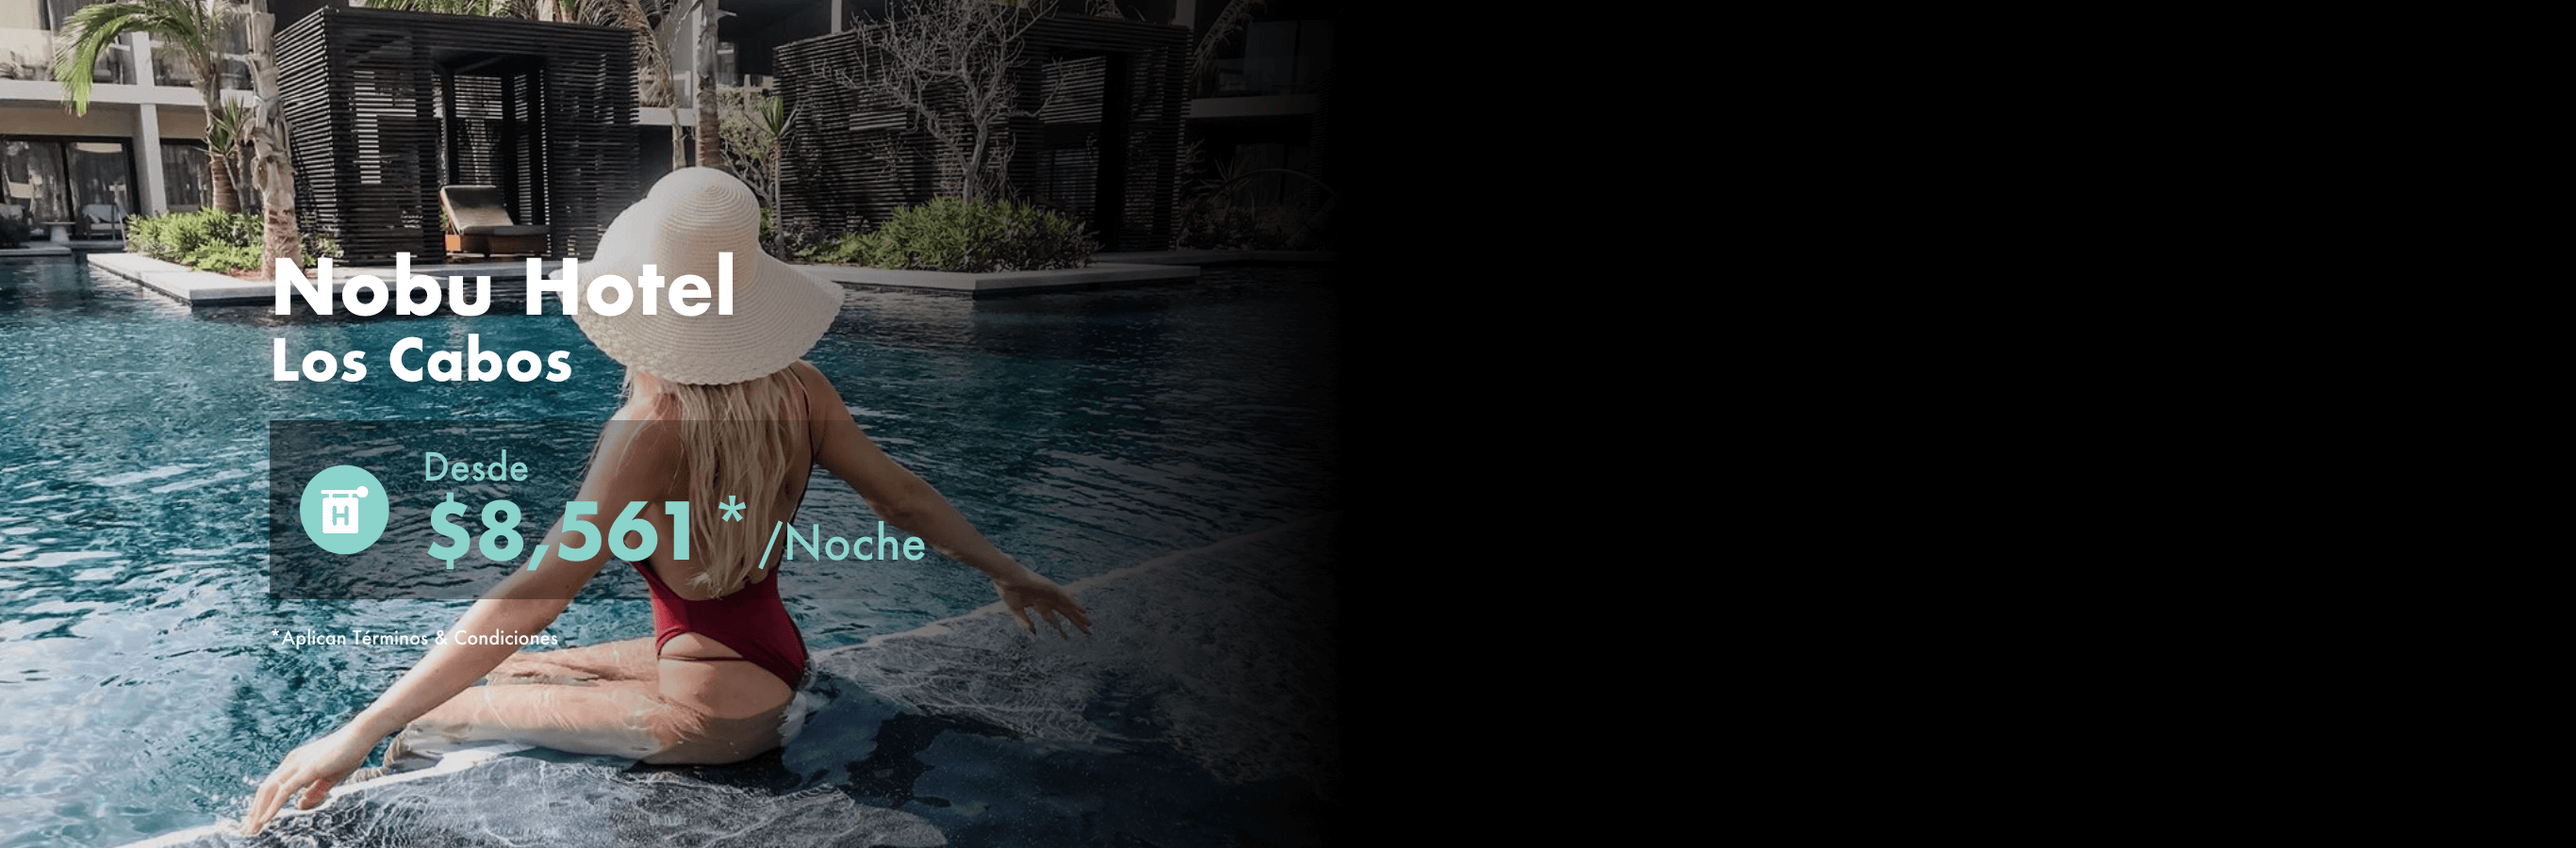
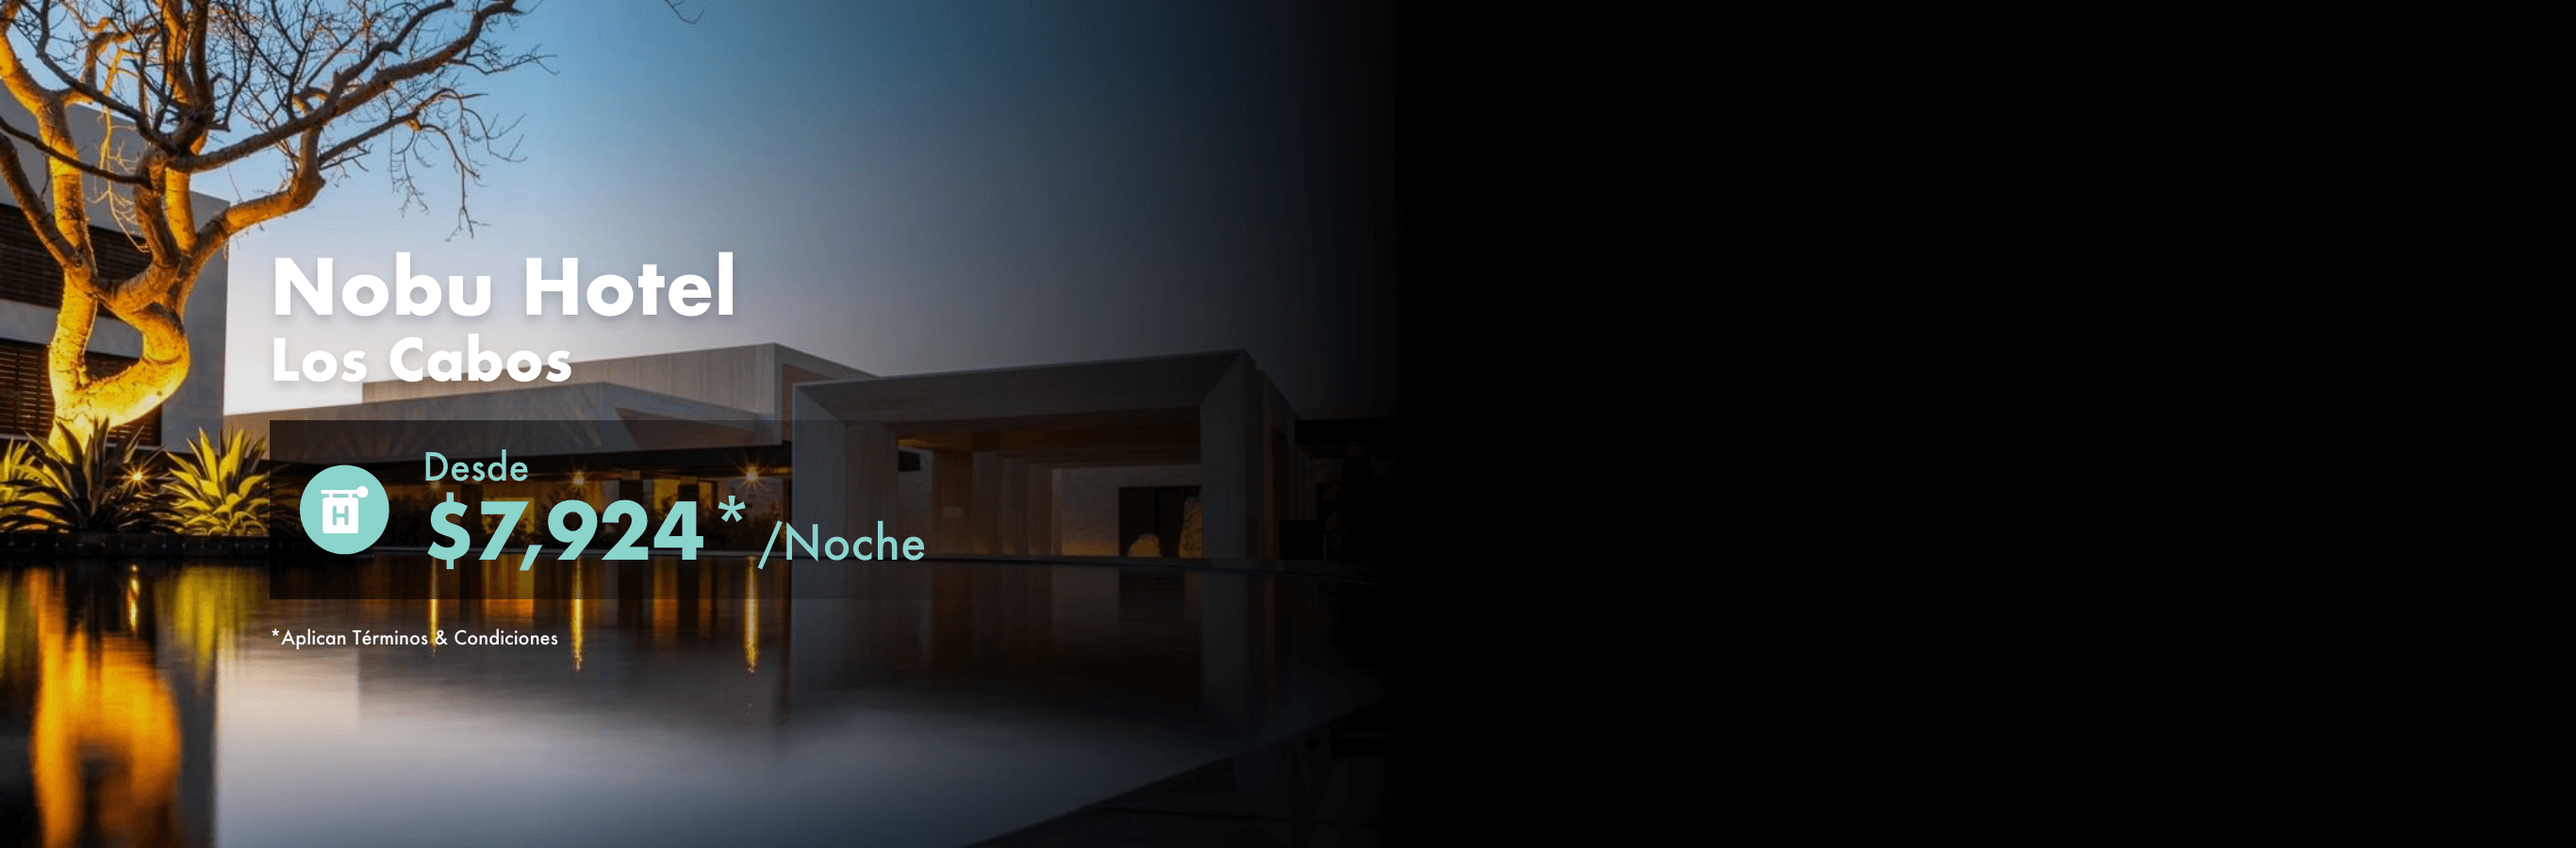
Cambios de tarifas y slides

diff --git a/index.php b/index.php
@@ -19,7 +19,7 @@
                                 <img src="./assets/images/boni/Slides/nobu_loscabos@2x.png" alt="nobu">
                             </li>
                             <li>
-                                <img src="./assets/images/boni/Slides/dreams_playamujeres@2x.png" alt="dreams">
+                                <img src="./assets/images/boni/Slides/thegrand_mp_hotel@2x.png" alt="tgmp">
                             </li>
                             <li>
                                 <img src="./assets/images/boni/Slides/azultalavera_hotel@2x.png" alt="azul">
@@ -127,7 +127,7 @@
                             <div class="col-md-12 col-sm-12 p-15">
                                 <h4 class="text-uppercase f-medium f-res-20">Nobu Hotel Los Cabos</h4>
                                 <small class="c-red f-8">Desde</small>
-                                <p class="c-red f-16">$8,561*<span class="fs-8">/Noche</span></p>
+                                <p class="c-red f-16">$7,924*<span class="fs-8">/Noche</span></p>
                                 <a href="#main" class="btn col-md-12 col-xs-12 btn-yellow white-text mb-10 radius-0 f-bold mb-0 txt-cap p-15 form-desktop">Llámame</a>
                                 <a href="#formRes" class="btn col-md-12 col-xs-12 btn-yellow white-text mb-10 radius-0 f-bold mb-0 txt-cap p-15 d-mobile">Llámame</a>
                             </div>
@@ -141,7 +141,7 @@
                             <div class="col-md-12 col-sm-12 p-15">
                                 <h4 class="text-uppercase f-medium f-res-20">Grand Velas Los Cabos</h4>
                                 <small class="c-red f-8">Desde</small>
-                                <p class="c-red f-16">$24,039*<span class="fs-8">/Noche</span></p>
+                                <p class="c-red f-16">$26,291*<span class="fs-8">/Noche</span></p>
                                 <a href="#main" class="btn col-md-12 col-xs-12 btn-yellow white-text mb-10 radius-0 f-bold mb-0 txt-cap p-15 form-desktop">Llámame</a>
                                 <a href="#formRes" class="btn col-md-12 col-xs-12 btn-yellow white-text mb-10 radius-0 f-bold mb-0 txt-cap p-15 d-mobile">Llámame</a>
                             </div>
@@ -183,7 +183,7 @@
                             <div class="col-md-12 col-sm-12 p-15">
                                 <h4 class="text-uppercase f-medium f-res-20">Azul Talavera</h4>
                                 <small class="c-red f-8">Desde</small>
-                                <p class="c-red f-16">$5,222*<span class="fs-8">/Noche</span></p>
+                                <p class="c-red f-16">$4,803*<span class="fs-8">/Noche</span></p>
                                 <a href="#main" class="btn col-md-12 col-xs-12 btn-yellow white-text mb-10 radius-0 f-bold mb-0 txt-cap p-15 form-desktop">Llámame</a>
                                 <a href="#formRes" class="btn col-md-12 col-xs-12 btn-yellow white-text mb-10 radius-0 f-bold mb-0 txt-cap p-15 d-mobile">Llámame</a>
                             </div>
@@ -209,7 +209,7 @@
                             <div class="col-md-12 col-sm-12 p-15">
                                 <h4 class="text-uppercase f-medium f-res-20">The Grand Moon Palace </h4>
                                 <small class="c-red f-8">Desde</small>
-                                <p class="c-red f-16">$11,410*<span class="fs-8">/Persona</span></p>
+                                <p class="c-red f-16">$14,090*<span class="fs-8">/Persona</span></p>
                                 <a href="#main" class="btn col-md-12 col-xs-12 btn-yellow white-text mb-10 radius-0 f-bold mb-0 txt-cap p-15 form-desktop">Llámame</a>
                                 <a href="#formRes" class="btn col-md-12 col-xs-12 btn-yellow white-text mb-10 radius-0 f-bold mb-0 txt-cap p-15 d-mobile">Llámame</a>
                             </div>
@@ -223,7 +223,7 @@
                             <div class="col-md-12 col-sm-12 p-15">
                                 <h4 class="mb-0 text-uppercase f-medium f-res-20">Hard Rock Hotel Cancun</h4>
                                 <small class="c-red f-8">Desde</small>
-                                <p class="c-red f-16">$9,415*<span class="fs-8">/Persona</span></p>
+                                <p class="c-red f-16">$9,067*<span class="fs-8">/Persona</span></p>
                                 <a href="#main" class="btn col-md-12 col-xs-12 btn-yellow white-text mb-10 radius-0 f-bold mb-0 txt-cap p-15 form-desktop">Llámame</a>
                                 <a href="#formRes" class="btn col-md-12 col-xs-12 btn-yellow white-text mb-10 radius-0 f-bold mb-0 txt-cap p-15 d-mobile">Llámame</a>
                             </div>
@@ -237,7 +237,7 @@
                             <div class="col-md-12 col-sm-12 p-15">
                                 <h4 class="mb-0 text-uppercase f-medium f-res-20">Dreams Playa Mujeres Golf Resort & Spa</h4>
                                 <small class="c-red f-8">Desde</small>
-                                <p class="c-red f-16">$8,959*<span class="fs-8">/Persona</span></p>
+                                <p class="c-red f-16">$8,362*<span class="fs-8">/Persona</span></p>
                                 <a href="#main" class="btn col-md-12 col-xs-12 btn-yellow white-text mb-10 radius-0 f-bold mb-0 txt-cap p-15 form-desktop">Llámame</a>
                                 <a href="#formRes" class="btn col-md-12 col-xs-12 btn-yellow white-text mb-10 radius-0 f-bold mb-0 txt-cap p-15 d-mobile">Llámame</a>
                             </div>
@@ -251,7 +251,7 @@
                             <div class="col-md-12 col-sm-12 p-15">
                                 <h4 class="text-uppercase f-medium f-res-20">UNICO 20ºN 87ºW</h4>
                                 <small class="c-red f-8">Desde</small>
-                                <p class="c-red f-16">$12,042*<span class="fs-8">/Persona</span></p>
+                                <p class="c-red f-16">$11,765*<span class="fs-8">/Persona</span></p>
                                 <a href="#main" class="btn col-md-12 col-xs-12 btn-yellow white-text mb-10 radius-0 f-bold mb-0 txt-cap p-15 form-desktop">Llámame</a>
                                 <a href="#formRes" class="btn col-md-12 col-xs-12 btn-yellow white-text mb-10 radius-0 f-bold mb-0 txt-cap p-15 d-mobile">Llámame</a>
                             </div>
@@ -265,7 +265,7 @@
                             <div class="col-md-12 col-sm-12 p-15">
                                 <h4 class="mb-0 text-uppercase f-medium f-res-20">GRAND VELAS RIVIERA NAYARIT</h4>
                                 <small class="c-red f-8">Desde</small>
-                                <p class="c-red f-16">$17,337*<span class="fs-8">/Persona</span></p>
+                                <p class="c-red f-16">$17,868*<span class="fs-8">/Persona</span></p>
                                 <a href="#main" class="btn col-md-12 col-xs-12 btn-yellow white-text mb-10 radius-0 f-bold mb-0 txt-cap p-15 form-desktop">Llámame</a>
                                 <a href="#formRes" class="btn col-md-12 col-xs-12 btn-yellow white-text mb-10 radius-0 f-bold mb-0 txt-cap p-15 d-mobile">Llámame</a>
                             </div>
@@ -368,7 +368,6 @@
     <script src="./assets/js/materialize.min.js"></script>
     <script src="./assets/js/custom.js"></script>
     <script src="./assets/js/function.min.js"></script>
-    <script src="//code.tidio.co/qhv2citaquldyh7hvjxpbg5o3zsc6r3o.js" async></script>
     <script src="./assets/js/form.min.js"></script>
     <script src="./assets/js/form-responsive.js"></script>
 </body>

diff --git a/template/header.php b/template/header.php
@@ -19,6 +19,7 @@
                         <h4><a href="#top" class="mm-arr" style="color: #333">Top Hoteles</a></h4>
                         <h4><a href="#lifestyle" style="color: #333">Paquetes</a></h4>
                         <h4><a href="#trendy" style="color: #333" class="mm-arr">Destinos</a></h4>
+                        <h4><a href="https://boniviajes.com/palace" style="color: #333" class="mm-arr">Palace Resorts</a></h4>
                     </div>
                 </div>
             </div>
@@ -39,6 +40,7 @@
                             <li><a id="bundles-btn" href="#top" class="mm-arr">Top Hoteles</a></li>
                             <li><a id="life-btn" href="#lifestyle">Paquetes</a></li>
                             <li><a id="trendy-btn" href="#trendy" class="mm-arr">Destinos</a></li>
+                            <li><a id="trendy-btn" href="https://boniviajes.com/palace" class="mm-arr">Palace Resorts</a></li>
                         </ul>
                     </div>
                 </div>
